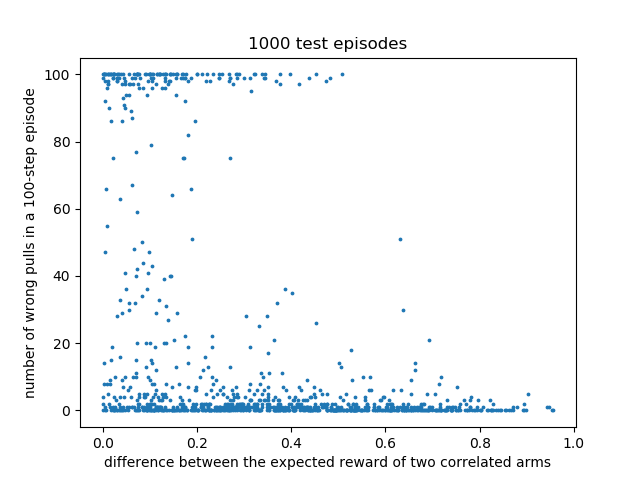
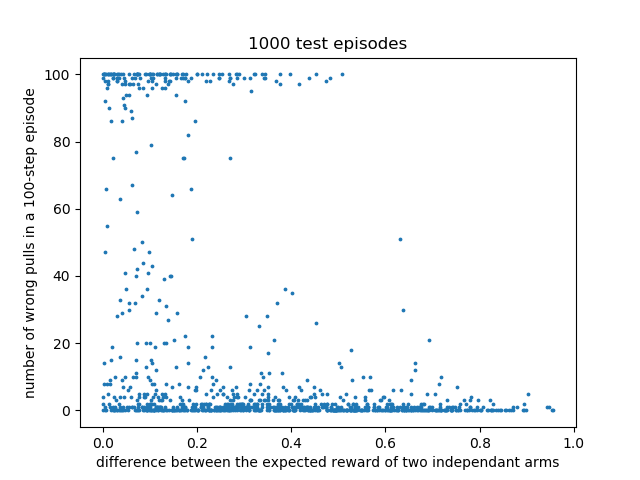
fix figure

Changed region(s): [[0.1562, 0.9375, 0.875, 1.0]]

diff --git a/bandit/train_ind.py b/bandit/train_ind.py
@@ -194,6 +194,6 @@ plt.title('Averaged over 1000 test episodes')
 wrong_count = np.sum(rec2,axis=1)
 plt.figure()
 plt.scatter(md,wrong_count,s=3)
-plt.xlabel('difference between the expected reward of two correlated arms')
+plt.xlabel('difference between the expected reward of two independant arms')
 plt.ylabel('number of wrong pulls in a 100-step episode')
 plt.title('1000 test episodes')
